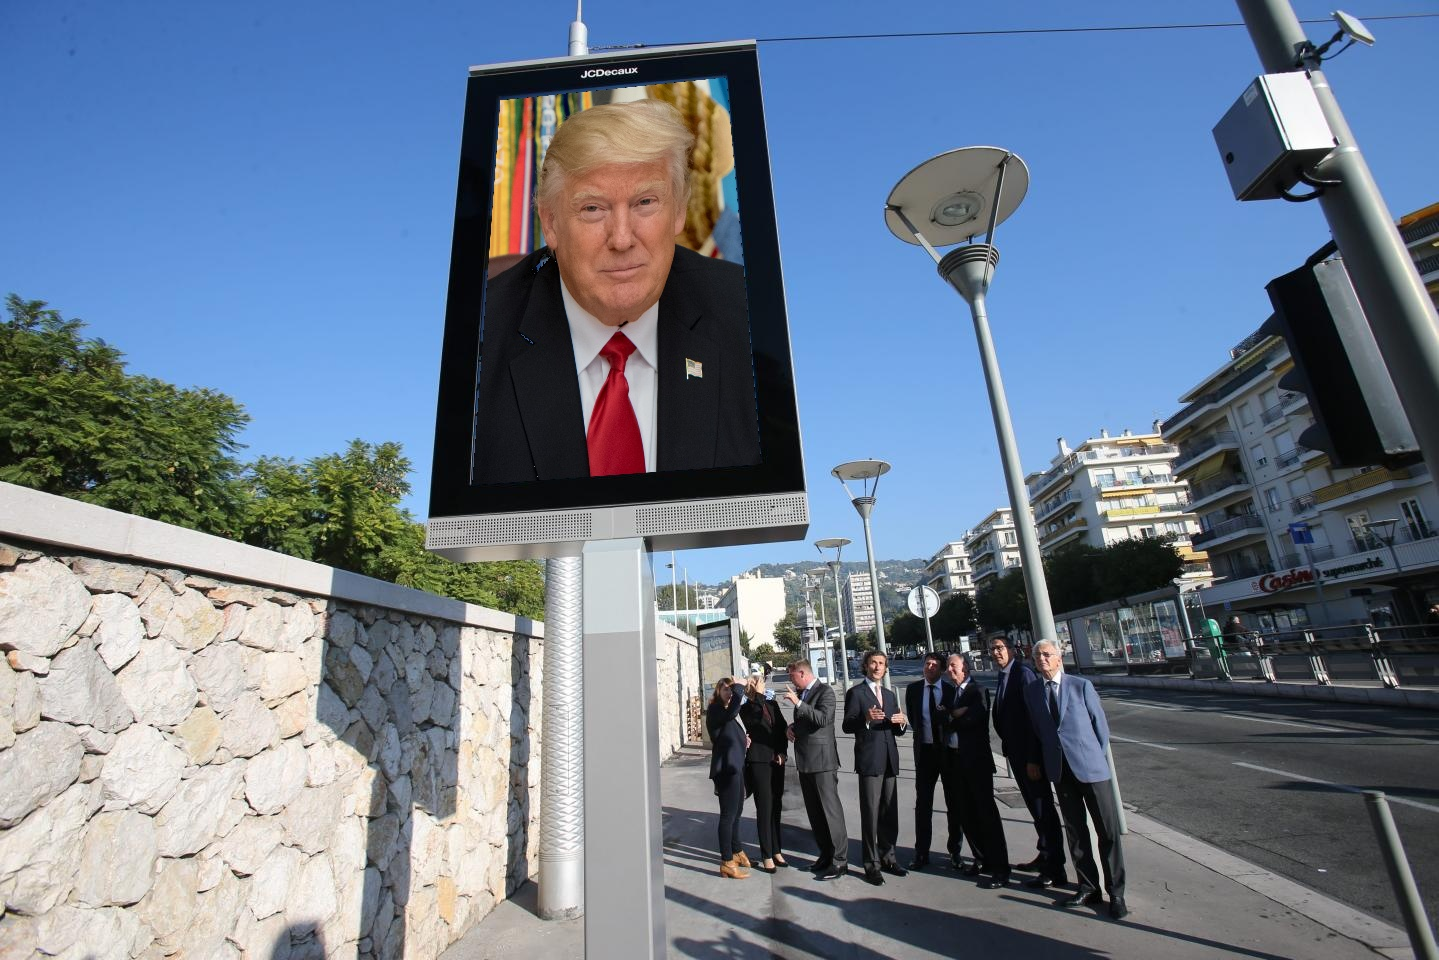
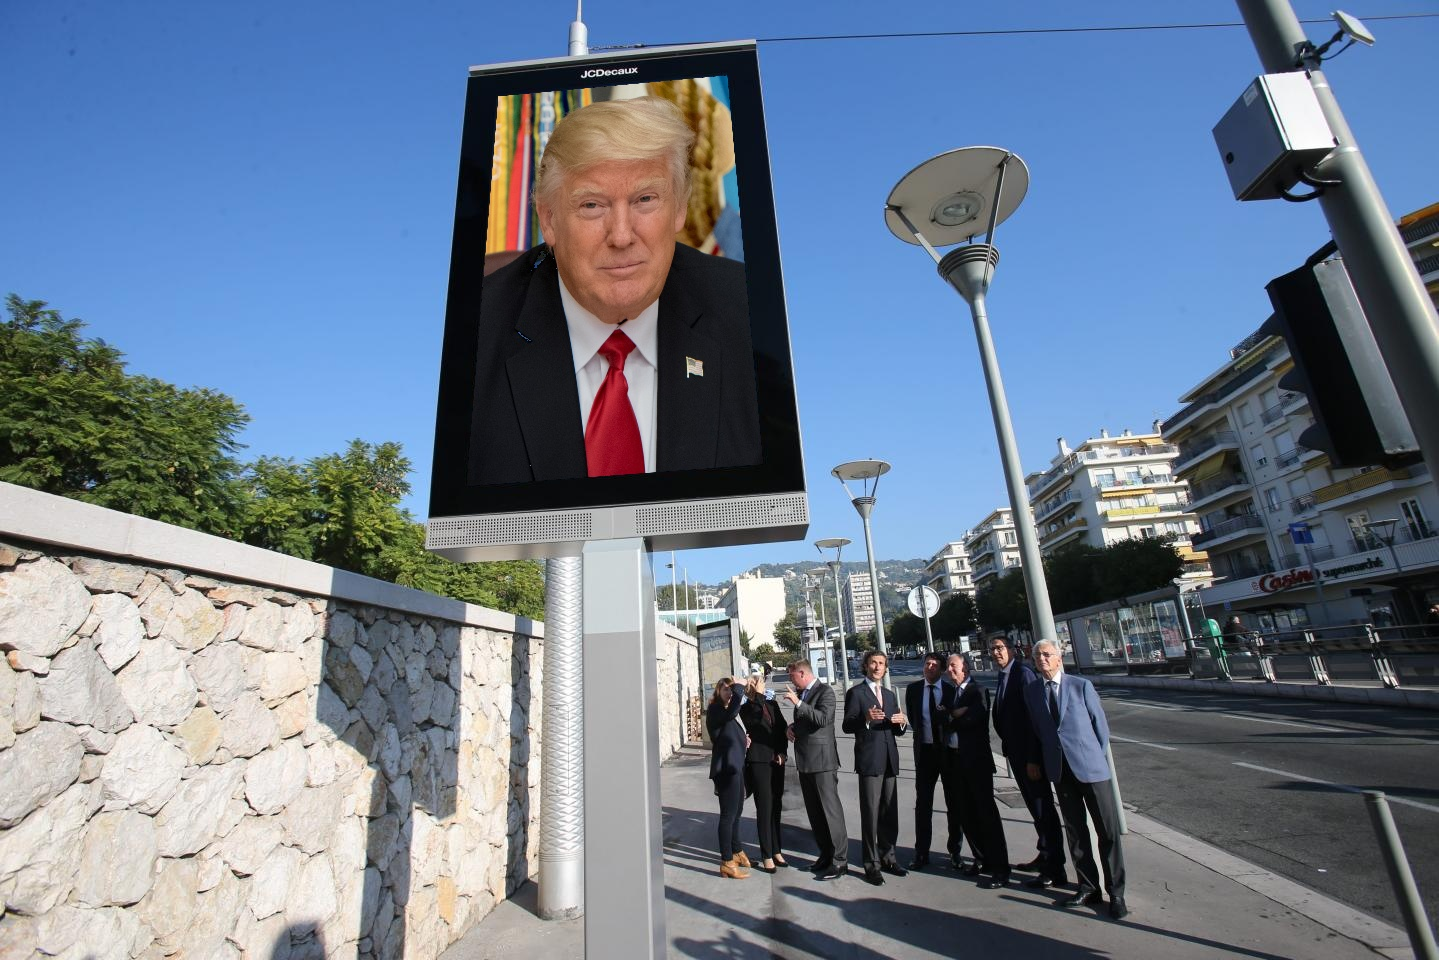
IG4-TP4 - Homographie

Changed region(s): [[0.3363, 0.0625, 0.5198, 0.4688], [0.4587, 0.375, 0.4892, 0.4062]]

diff --git a/Ingenierie_Graphique/IG4-Vision_et_Apprentissage/TP4/trump.cpp b/Ingenierie_Graphique/IG4-Vision_et_Apprentissage/TP4/trump.cpp
@@ -27,17 +27,40 @@ int main( int, char** argv )
 
   
   // Les afficher
-  //namedWindow( win_name, CV_WINDOW_AUTOSIZE );
-  //imshow( win_name, panneau );
+  // namedWindow( win_name, WINDOW_AUTOSIZE );
+  // imshow( win_name, panneau );
+  // setMouseCallback("panneau", mouse_callback, NULL);
   vector<Point2f> psrc, pdst;
 
-  // A compléter
+  /* On préférera la fonction findHomography() car nous avons 4 points à projeter, getAffineTransform() étant limité à 3 paires de points pour le calcul */
 
+  // A compléter
+  psrc.push_back(Point2f(0, 0));
+  psrc.push_back(Point2f(trump.cols, 0));
+  psrc.push_back(Point2f(trump.cols, trump.rows));
+  psrc.push_back(Point2f(0, trump.rows));
+
+  pdst.push_back(Point2f(498, 96));
+  pdst.push_back(Point2f(727, 75));
+  pdst.push_back(Point2f(763, 464));
+  pdst.push_back(Point2f(466, 486));
+
+  Mat M = findHomography(psrc, pdst);
+  Mat resultat;
+  warpPerspective(trump, resultat, M, Size(panneau.cols, panneau.rows));
+
+  for(int j = 0; j < resultat.rows; j++){
+    for(int i = 0; i < resultat.cols; i++){
+      if(resultat.at<Vec3b>(j,i) == Vec3b(0,0,0)){
+        resultat.at<Vec3b>(j,i) = panneau.at<Vec3b>(j,i);
+      }
+    }
+  }
 
   namedWindow("resultat", WINDOW_AUTOSIZE );
-  imshow("resultat", panneau );
+  imshow("resultat", resultat );
 
-  imwrite("resultat.jpg", panneau);
+  imwrite("resultat.jpg", resultat);
   // Attendre une touche 
   waitKey(0);
 
